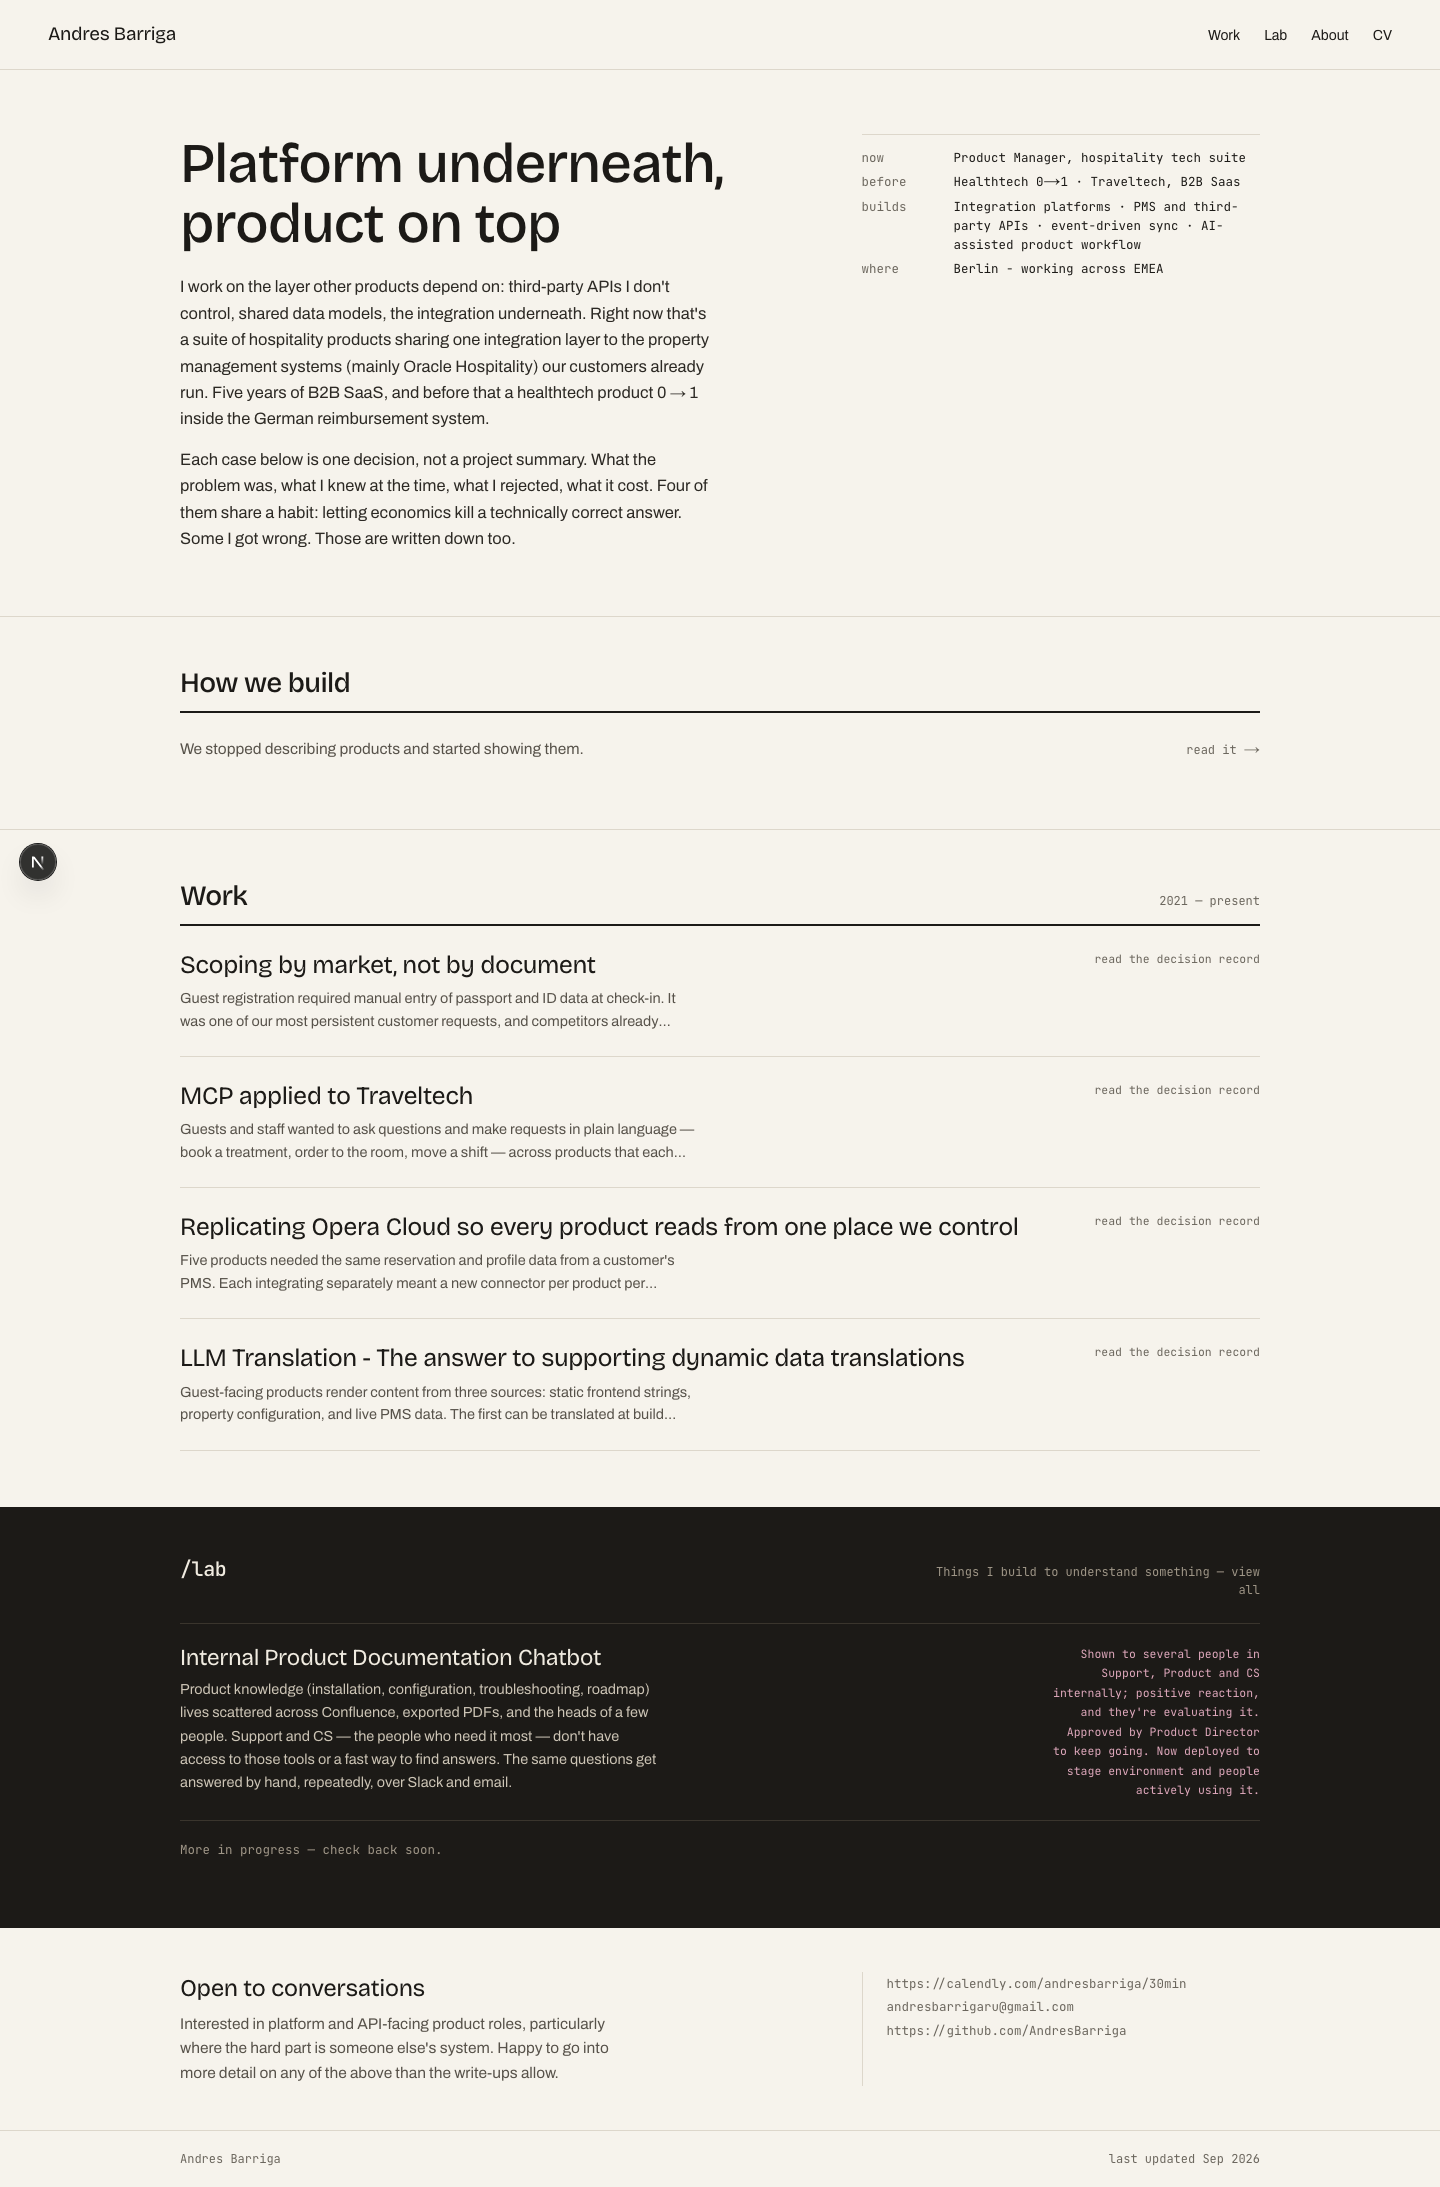
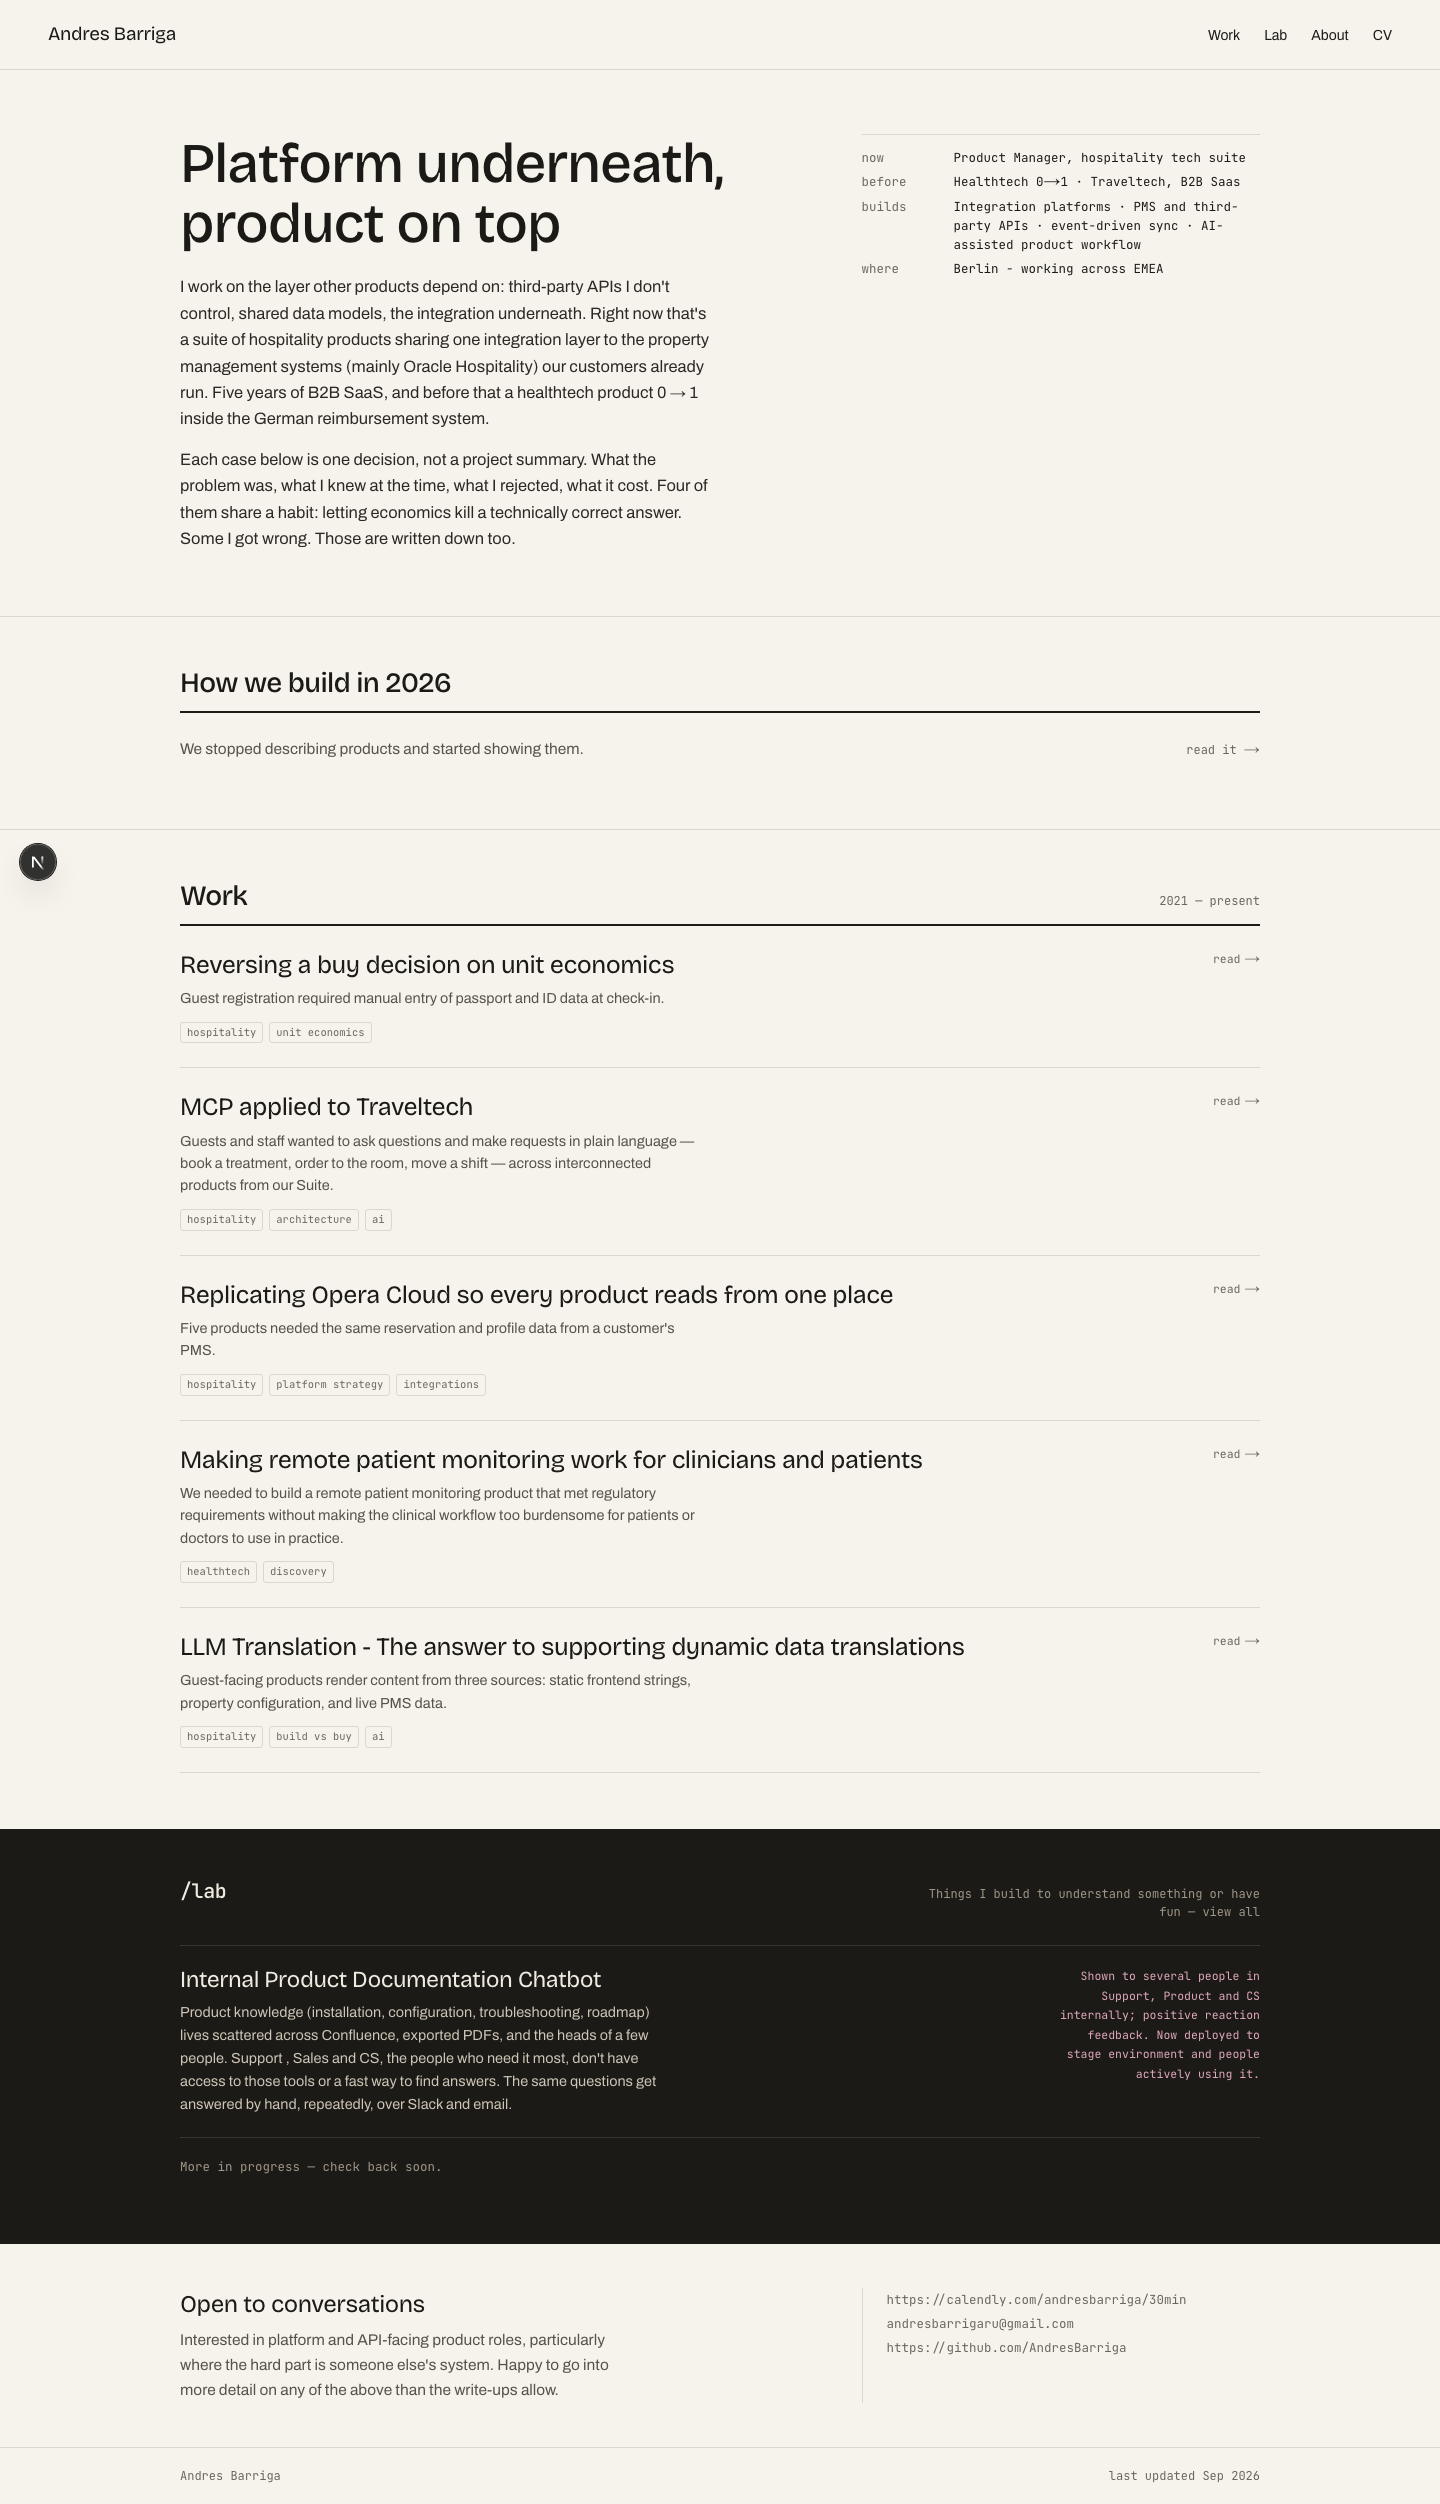
Add industry/focus/tech metadata to work case studies
Adds industry (required), focus (required), and tech (optional) frontmatter
fields to case studies, rendered as mono chips below each index row's summary
and as a meta line in the case study header. Reworks the /work index row to
lead with title, then summary cut at sentence end instead of mid-word, then
tags, with a single "read →" as the row's action (arrow nudges on hover,
documented as a deliberate exception in the frontend-design skill). Also
fixes a YAML parsing bug in the ask-ai-productinfo lab entry.

diff --git a/src/components/CaseStudyListItem.tsx b/src/components/CaseStudyListItem.tsx
@@ -1,4 +1,5 @@
 import Link from "next/link";
+import { getCaseStudyDescription, getCaseStudyTags } from "@/src/lib/content";
 import type { CaseStudyFrontmatter, ContentEntry } from "@/src/lib/types";
 
 export function CaseStudyListItem({
@@ -7,6 +8,7 @@ export function CaseStudyListItem({
   entry: ContentEntry<CaseStudyFrontmatter>;
 }) {
   const { frontmatter } = entry;
+  const tags = getCaseStudyTags(frontmatter);
 
   return (
     <Link
@@ -17,12 +19,25 @@ export function CaseStudyListItem({
         <div className="font-display text-[25px] leading-tight tracking-[-0.02em]">
           {frontmatter.title}
         </div>
-        <p className="mt-1.5 line-clamp-2 max-w-[62ch] text-[14.5px] leading-[1.55] text-body-muted">
-          {frontmatter.problem}
+        <p className="mt-1.5 max-w-[62ch] text-[14.5px] leading-[1.55] text-body-muted">
+          {getCaseStudyDescription(frontmatter)}
         </p>
+        <div className="mt-3 flex flex-wrap gap-1.5">
+          {tags.map((tag) => (
+            <span
+              key={tag}
+              className="rounded-[3px] border border-hairline px-1.5 py-0.5 font-mono text-[10.5px] text-meta"
+            >
+              {tag}
+            </span>
+          ))}
+        </div>
       </div>
-      <div className="underline-sweep w-fit font-mono text-[11.5px] text-meta sm:ml-auto sm:text-right">
-        read the decision record
+      <div className="flex w-fit items-baseline gap-1 font-mono text-[11.5px] text-meta sm:ml-auto">
+        <span>read</span>
+        <span className="row-arrow" aria-hidden="true">
+          →
+        </span>
       </div>
     </Link>
   );

diff --git a/app/work/[slug]/page.tsx b/app/work/[slug]/page.tsx
@@ -3,7 +3,11 @@ import type { Metadata } from "next";
 import Link from "next/link";
 import { notFound } from "next/navigation";
 import { MDXRemote } from "next-mdx-remote-client/rsc";
-import { getAllCaseStudies, getCaseStudyDescription } from "@/src/lib/content";
+import {
+  getAllCaseStudies,
+  getCaseStudyDescription,
+  getCaseStudyMetaLine,
+} from "@/src/lib/content";
 import { DecisionRecord, type DecisionRecordField } from "@/src/components/DecisionRecord";
 import { getMdxComponents } from "@/src/components/mdx-components";
 import type { CaseStudyFrontmatter } from "@/src/lib/types";
@@ -84,6 +88,9 @@ export default async function CaseStudyPage(props: PageProps<"/work/[slug]">) {
 
       <div className="border-b border-hairline px-6 py-10 sm:px-12 sm:py-14">
         <div className="mx-auto w-full max-w-[1080px]">
+          <p className="m-0 mb-3 font-mono text-[12px] text-meta">
+            {getCaseStudyMetaLine(frontmatter)}
+          </p>
           <h1 className="m-0 max-w-[24ch] font-display text-[32px] font-medium leading-[1.1] tracking-[-0.02em] sm:text-[46px]">
             {frontmatter.title}
           </h1>

diff --git a/app/page.tsx b/app/page.tsx
@@ -47,7 +47,7 @@ Four of them share a habit: letting economics kill a technically correct answer.
         <div className="mx-auto w-full max-w-[1080px]">
           <div className="mb-2 flex items-baseline justify-between gap-4">
             <h2 className="m-0 font-display text-2xl font-medium tracking-[-0.025em] sm:text-[28px]">
-              How we build
+              How we build in 2026
             </h2>
           </div>
           <div className="border-t-2 border-ink py-6">
@@ -97,7 +97,7 @@ Four of them share a habit: letting economics kill a technically correct answer.
               href="/lab"
               className="max-w-[48ch] text-right font-mono text-xs leading-[1.5] text-meta-dark no-underline underline-sweep"
             >
-              Things I build to understand something — view all
+              Things I build to understand something or have fun — view all
             </Link>
           </div>
           <div className="border-t border-hairline-dark">

diff --git a/src/lib/content.ts b/src/lib/content.ts
@@ -45,6 +45,19 @@ export function getCaseStudyDescription(
   return match ? match[0] : frontmatter.problem;
 }
 
+/** Lowercase industry/focus/tech tags for a case study. Omits `tech` when
+ * the case study doesn't set it. */
+export function getCaseStudyTags(frontmatter: CaseStudyFrontmatter): string[] {
+  return [frontmatter.industry, frontmatter.focus, frontmatter.tech]
+    .filter((value): value is string => Boolean(value))
+    .map((value) => value.toLowerCase());
+}
+
+/** Compact "industry · focus · tech" meta line for the case study header. */
+export function getCaseStudyMetaLine(frontmatter: CaseStudyFrontmatter): string {
+  return getCaseStudyTags(frontmatter).join(" · ");
+}
+
 export function getAllLabProjects(): ContentEntry<LabProjectFrontmatter>[] {
   return readEntries<LabProjectFrontmatter>(LAB_DIR);
 }

diff --git a/app/globals.css b/app/globals.css
@@ -101,6 +101,30 @@
 }
 
 /*
+ * Single arrow nudge for a row where the whole row is the link (e.g. the
+ * /work index): the arrow shifting right on hover/focus is the one hover
+ * cue for the row's primary action, standing in for a hover state on the
+ * row itself.
+ */
+@layer components {
+  .row-arrow {
+    display: inline-block;
+    transition: transform 150ms ease-out;
+  }
+
+  .group:hover .row-arrow,
+  .group:focus-within .row-arrow {
+    transform: translateX(4px);
+  }
+}
+
+@media (prefers-reduced-motion: reduce) {
+  .row-arrow {
+    transition: none;
+  }
+}
+
+/*
  * Decision record entrance animation. The two header rules (solid under the
  * "decision record" label, dotted under the instructions line) are drawn via
  * a `::after` line rather than the real Tailwind border, so they can be

diff --git a/src/lib/types.ts b/src/lib/types.ts
@@ -1,6 +1,10 @@
 export interface CaseStudyFrontmatter {
   title: string;
   slug: string;
+  industry: string;
+  focus: string;
+  /** Optional; the index row and header show only industry + focus when omitted. */
+  tech?: string;
   problem: string;
   evidence: string;
   alternatives: string;

diff --git a/.claude/skills/frontend-design/SKILL.md b/.claude/skills/frontend-design/SKILL.md
@@ -29,7 +29,11 @@ build," not a features list. Don't reach for the same layout for both.
 - Tracked-out ALL-CAPS eyebrow labels above every heading.
 - Numbered markers (01 / 02 / 03) unless the content is genuinely
   sequential — a case study is not a numbered sequence.
-- A "→" appended to every link or button.
+- A "→" appended to every link or button. Exception: a whole-row link
+  (e.g. the /work index rows) can end in a single "read →" as the row's
+  one action cue, with the arrow nudging right on hover/focus instead of
+  underlining the row. That's one arrow per row standing in for the row's
+  only interactive affordance, not decoration sprinkled on every link.
 - Fade-and-slide-up entrance animation on every section, hover
   transitions on every card — scattered motion reads as generated.
   One deliberate moment (a single page-load sequence, one reveal) beats
